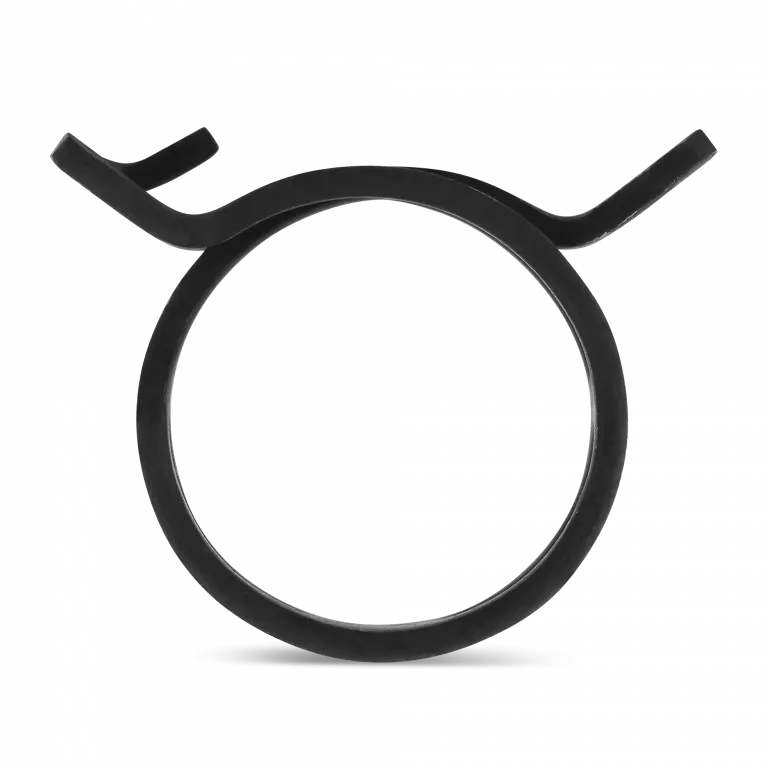
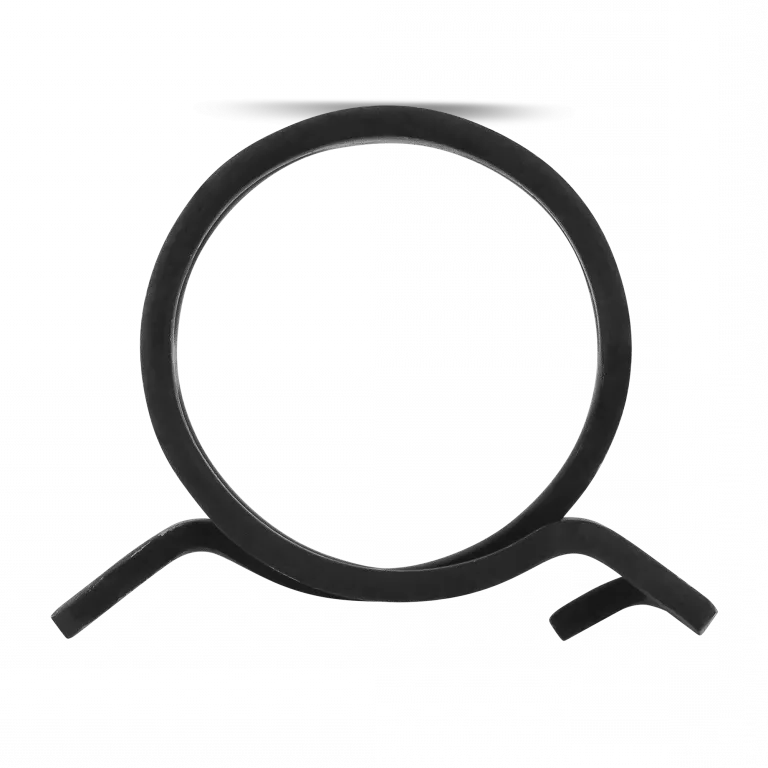
correcciones esteticas en expendedor

Changed region(s): [[0.0625, 0.125, 0.9375, 0.875]]

diff --git a/src/main/java/org/GUI/PanelExpendedor.java b/src/main/java/org/GUI/PanelExpendedor.java
@@ -89,7 +89,15 @@ public class PanelExpendedor extends JPanel {
         // DETALLES
         g2d.setColor(VGUI.CustomColor.GRIS_OSCURO);
         g2d.fillRect(450, 20, 130, 600);
+        g2d.setColor(VGUI.CustomColor.GRIS_AZUL);
         g2d.fillRoundRect(100 + 15, 495, 210, 85, VGUI.Borde.PEQUENO, VGUI.Borde.PEQUENO);
+
+        // INTERIOR EXPENDEDOR
+        g2d.fillRect(20, 20, 400, 400);
+
+        //Pantalla Expendedor
+        g2d.setColor(VGUI.CustomColor.CIAN);
+        g2d.fillRect(460, 60, 110, 30);
 
         // INTERIOR EXPENDEDOR
         g2d.setColor(VGUI.CustomColor.GRIS_AZUL);
@@ -118,15 +126,18 @@ public class PanelExpendedor extends JPanel {
 
 
                     // Dibujar el stock de productos
-                    for (int j = 0; j < cantidadEnDeposito && j < 10; j++) {
-                        if (imagenADibujar != null) {
-                            g2d.drawImage(imagenADibujar, xDinamico, yDinamico - 80, 64, 80, this);
-                            //resortes extra por cada producto:
-                            g2d.drawImage(imgResorte, xDinamico + 10, yDinamico - 30, 40, 40, this);
-
-                            yDinamico += 1;
-                            xDinamico += 2;
+                    for (int j = 0; j < cantidadEnDeposito || j < 5; j++) {
+                        if (j>10) {
+                            break;
                         }
+                        if (cantidadEnDeposito > j) {
+                            g2d.drawImage(imagenADibujar, xDinamico, yDinamico - 80, 64, 80, this);
+                        }
+                        //resortes extra por cada producto:
+                        g2d.drawImage(imgResorte, xDinamico + 10, yDinamico - 30, 40, 40, this);
+
+                        yDinamico += 1;
+                        xDinamico += 2;
                     }
 
                 // El resorte siempre se dibuja, haya o no producto

diff --git a/src/main/java/org/GUI/PanelPrincipal.java b/src/main/java/org/GUI/PanelPrincipal.java
@@ -17,7 +17,7 @@ public class PanelPrincipal extends JPanel {
         this.setSize(600, 800);
         this.setLayout(new GridBagLayout());
 
-        llenarExp = new Expendedor(20);
+        llenarExp = new Expendedor(9);
         exp = new PanelExpendedor(llenarExp);
         com = new PanelComprador(new Comprador(), llenarExp);
         this.setBackground(Color.white);

diff --git a/src/main/java/org/GUI/VGUI.java b/src/main/java/org/GUI/VGUI.java
@@ -20,6 +20,7 @@ public interface VGUI {
         public static final Color AZUL_MARCA = new Color(35, 116, 171);
         public static final Color NEGRO = new Color(34, 38, 41);
         public static final Color VERDE = new Color(134, 194, 50);
+        public static final Color CIAN = new Color(100,200,200);
         public static final Color VERDE_EXP = new Color(104, 154, 40);
         public static final Color ROSA = new Color(255, 132, 132);
         public static final Color GRIS_AZUL= new Color(223, 223, 233);